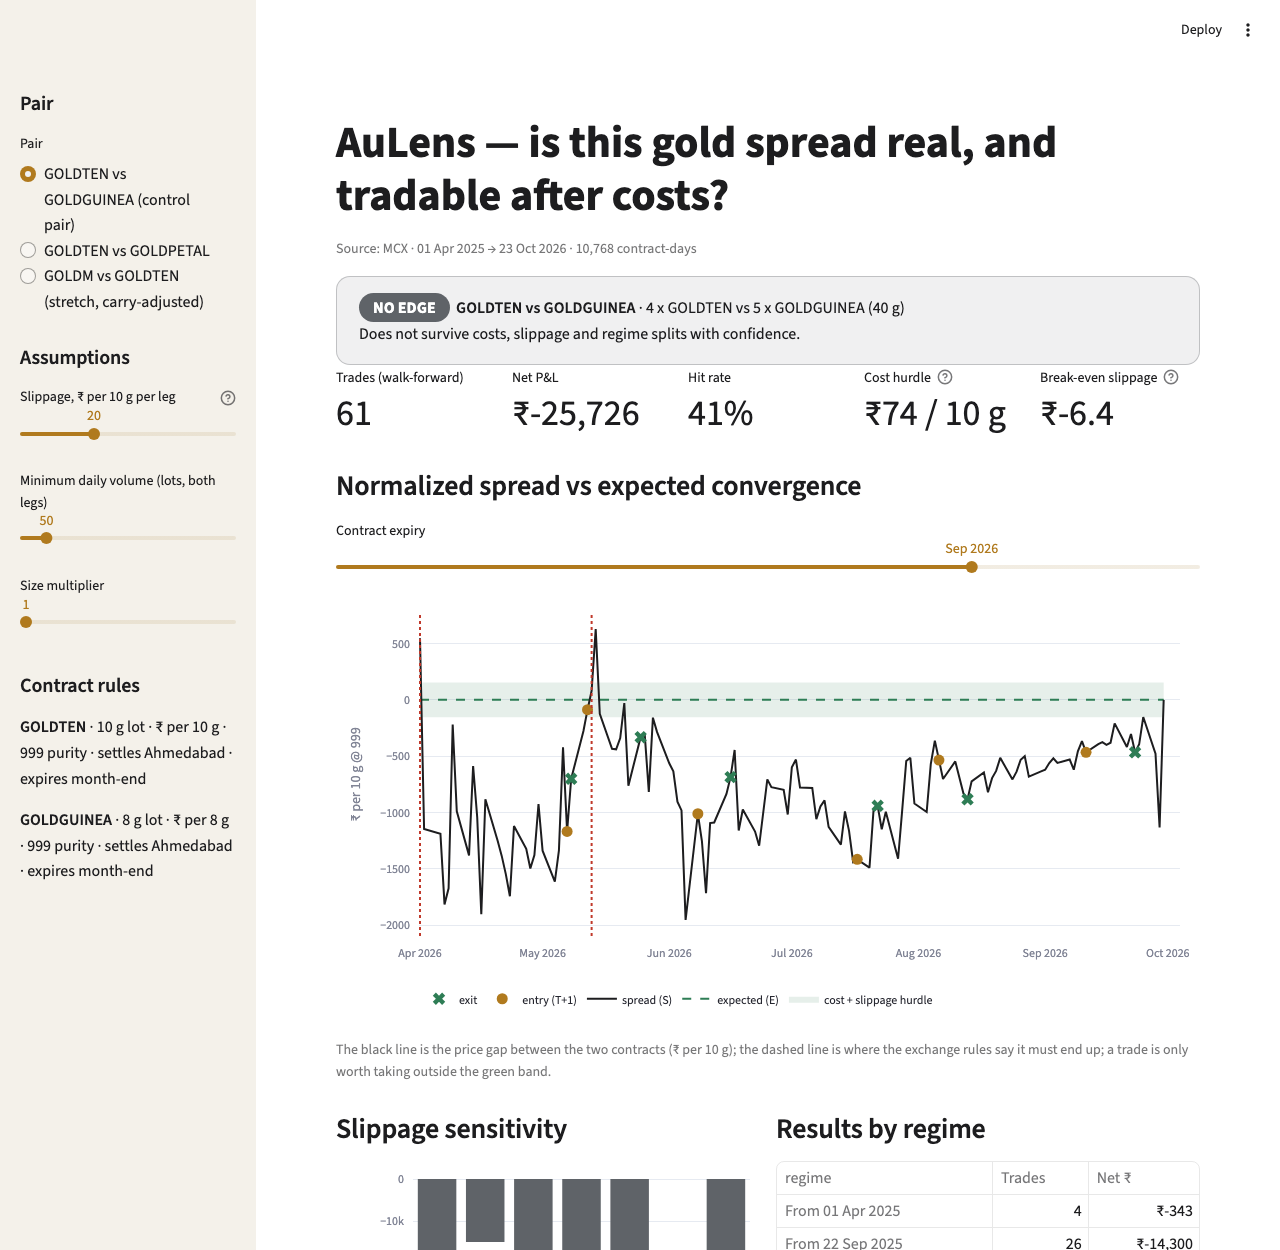
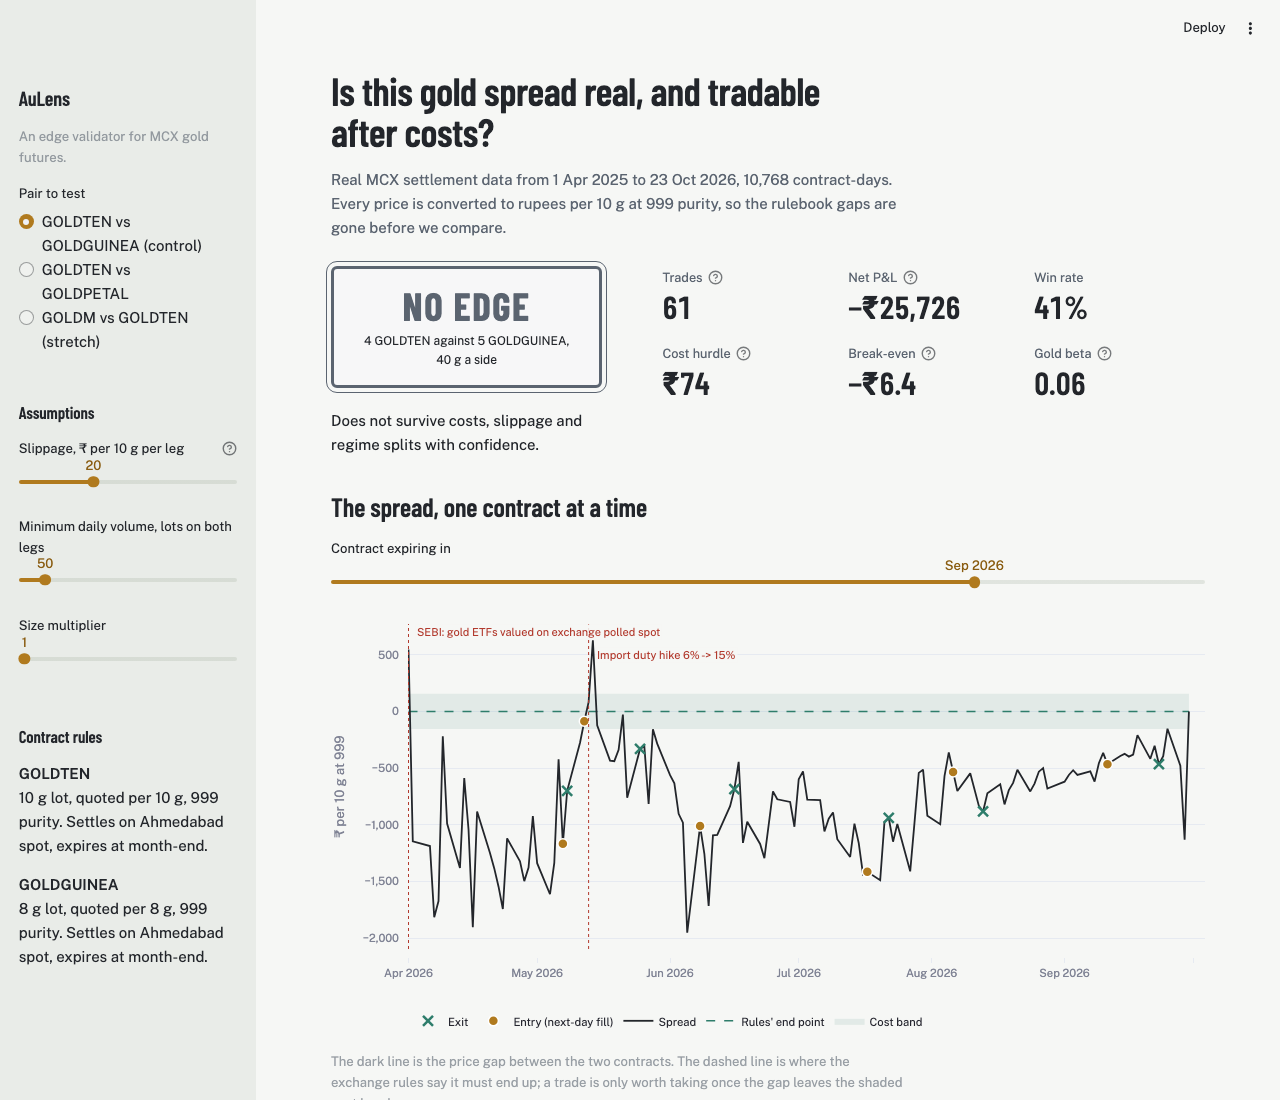
feat: restyle dashboard as an assay certificate
- Verdict shown as a hallmark stamp next to six key numbers
- Barlow Condensed headings and figures, Public Sans body; cool assay-paper palette
- Shared Plotly template, plain-language section titles and legends, true minus signs
- Staggered regime labels; numbers stay three across on phones
- Slider values use text-safe gold (5.3:1); all body text >= 4.5:1

diff --git a/app/streamlit_app.py b/app/streamlit_app.py
@@ -8,15 +8,17 @@ import plotly.graph_objects as go
 import streamlit as st
 
 sys.path.insert(0, str(Path(__file__).resolve().parents[1]))
+sys.path.insert(0, str(Path(__file__).resolve().parent))
 from aulens.backtest import Params, walk_forward  # noqa: E402
 from aulens.costs import CostModel  # noqa: E402
 from aulens.data.loader import load_processed  # noqa: E402
 from aulens.specs import MCX_FULL_HOLIDAYS, PAIRS, REGIME_BREAKS, SPECS  # noqa: E402
 from aulens.verdict import verdict  # noqa: E402
+from theme import (CSS, FAULT, GOLD, INK, PLOTLY_CONFIG, STEEL, VERDIGRIS,  # noqa: E402
+                   hallmark, rupees)
 
-GOLD, DARK, GREEN, GREY, RED = "#B07A1E", "#1D1D1F", "#2E7D55", "#5F6368", "#C0392B"
-PLOTLY_CONFIG = {"displayModeBar": False}  # hover-only toolbar; drag zooms, double-click resets
 st.set_page_config(page_title="AuLens", page_icon="🔎", layout="wide")
+st.markdown(CSS, unsafe_allow_html=True)
 
 
 @st.cache_data
@@ -27,26 +29,22 @@ def data():
 df = data()
 source = "SYNTHETIC" if (df["source"] == "SYNTHETIC").any() else df["source"].iloc[0]
 
-st.title("AuLens — is this gold spread real, and tradable after costs?")
-if source == "SYNTHETIC":
-    st.warning("SYNTHETIC DATA — for UI development only. Numbers below are not findings.")
-st.caption(f"Source: {source} · {df['date'].min():%d %b %Y} → {df['date'].max():%d %b %Y} · "
-           f"{len(df):,} contract-days")
-
 with st.sidebar:
-    st.header("Pair")
-    tags = {0: "  (control pair)", 2: "  (stretch, carry-adjusted)"}
+    st.header("AuLens")
+    st.caption("An edge validator for MCX gold futures.")
+    tags = {0: " (control)", 2: " (stretch)"}
     labels = [f"{a} vs {b}" + tags.get(i, "") for i, (a, b) in enumerate(PAIRS)]
-    a, b = PAIRS[st.radio("Pair", range(len(PAIRS)), format_func=lambda i: labels[i])]
-    st.header("Assumptions")
+    a, b = PAIRS[st.radio("Pair to test", range(len(PAIRS)), format_func=lambda i: labels[i])]
+    st.subheader("Assumptions")
     slip = st.slider("Slippage, ₹ per 10 g per leg", 0, 60, 20, 5,
-                     help="Bhavcopy has no order-book depth, so this is an assumption. See the sensitivity chart.")
-    min_vol = st.slider("Minimum daily volume (lots, both legs)", 0, 500, 50, 10)
+                     help="Bhavcopy has no order-book depth, so this is an assumption. See the slippage chart.")
+    min_vol = st.slider("Minimum daily volume, lots on both legs", 0, 500, 50, 10)
     scale = st.select_slider("Size multiplier", [1, 2, 4, 8], 4 if b == "GOLDPETAL" else 1)
-    st.header("Contract rules")
+    st.subheader("Contract rules")
     for s in (SPECS[a], SPECS[b]):
-        st.markdown(f"**{s.symbol}** · {s.lot_grams:g} g lot · ₹ per {s.quote_grams:g} g · {s.purity} purity · "
-                    f"settles {s.settle_city} · expires {'on the 5th' if s.expiry_rule == '5th' else 'month-end'}")
+        st.markdown(f"**{s.symbol}**  \n{s.lot_grams:g} g lot, quoted per {s.quote_grams:g} g, {s.purity} purity. "
+                    f"Settles on {s.settle_city} spot, expires "
+                    f"{'on the 5th' if s.expiry_rule == '5th' else 'at month-end'}.")
 
 
 @st.cache_data
@@ -78,98 +76,119 @@ def calendar(panel, tender, buffer):
 
 res, v = run(a, b, slip, min_vol, scale)
 panel, trades = res["panel"], res["trades"]
-
-# ---- Verdict card
-colour = {"EDGE": GREEN, "NO EDGE": GREY, "UNTESTABLE": GOLD}[v["verdict"]]
-st.markdown(
-    f"<div style='padding:18px 22px;border-radius:14px;background:{colour}18;border:1px solid {colour}55'>"
-    f"<span style='background:{colour};color:white;padding:4px 14px;border-radius:999px;font-weight:700'>"
-    f"{v['verdict']}</span>&nbsp;&nbsp;<b>{v['pair']}</b> · {v['lots']}<br>"
-    f"<span style='color:{DARK}'>{v['reason']}</span></div>", unsafe_allow_html=True)
-
 hurdle = CostModel().breakeven_per_10g(panel["px10_a"].iloc[-1], res["grams"])
-c = st.columns(5)
-c[0].metric("Trades (walk-forward)", v["trades"])
-c[1].metric("Net P&L", f"₹{v.get('net_pnl', 0):,.0f}")
-c[2].metric("Hit rate", f"{v.get('hit_rate', 0):.0%}")
-c[3].metric("Cost hurdle", f"₹{hurdle:,.0f} / 10 g", help="Statutory + brokerage round trip, before slippage")
-c[4].metric("Break-even slippage", f"₹{v.get('breakeven_slippage_per_leg', float('nan')):,.1f}",
-            help="Slippage per 10 g per leg at which net P&L reaches zero")
+
+# ---- Header and verdict
+st.title("Is this gold spread real, and tradable after costs?")
+if source == "SYNTHETIC":
+    st.warning("Synthetic data, for UI development only. Numbers below are not findings.")
+st.markdown(f"<p class='lede'>{'Real MCX settlement' if source == 'MCX' else 'Synthetic'} data from "
+            f"{df['date'].min():%-d %b %Y} to {df['date'].max():%-d %b %Y}, {len(df):,} contract-days. Every price is "
+            "converted to rupees per 10 g at 999 purity, so the rulebook gaps are gone before we compare.</p>",
+            unsafe_allow_html=True)
+
+lots_a, lots_b = res["lots"]
+hero, numbers = st.columns([1, 1.9], gap="large")
+with hero:
+    st.markdown(hallmark(v["verdict"], v["pair"], f"{lots_a} {a} against {lots_b} {b}, {res['grams']:.0f} g a side"),
+                unsafe_allow_html=True)
+    st.markdown(f"<div class='reason'>{v['reason']}</div>", unsafe_allow_html=True)
+with numbers:
+    r1, r2 = st.columns(3), st.columns(3)
+    beta = v.get("gold_beta", float("nan"))
+    r1[0].metric("Trades", v["trades"], help="Walk-forward: each month is traded with settings chosen on earlier months only.")
+    r1[1].metric("Net P&L", rupees(v.get("net_pnl", 0)), help="After statutory costs, brokerage and the slippage set in the sidebar.")
+    r1[2].metric("Win rate", f"{v.get('hit_rate', 0):.0%}")
+    r2[0].metric("Cost hurdle", rupees(hurdle), help="Statutory charges and brokerage for a round trip, per 10 g, before slippage.")
+    r2[1].metric("Break-even", rupees(v.get("breakeven_slippage_per_leg", float("nan")), 1),
+                 help="Slippage per 10 g per leg at which net P&L reaches zero. Negative means it loses even with perfect fills.")
+    r2[2].metric("Gold beta", "–" if pd.isna(beta) else f"{beta:.2f}",
+                 help="Slope of trade P&L on the gold move. Near 0 means the result is not just gold going up.")
 
 # ---- Spread chart for one expiry
-st.subheader("Normalized spread vs expected convergence")
+st.subheader("The spread, one contract at a time")
 exps = sorted(panel["expiry"].unique())
 expired = [x for x in exps if x <= panel["date"].max()]   # show a full life, through settlement
 default_exp = expired[-1] if expired else exps[0]
-exp = st.select_slider("Contract expiry", exps, value=default_exp,
+exp = st.select_slider("Contract expiring in", exps, value=default_exp,
                        format_func=lambda d: pd.Timestamp(d).strftime("%b %Y"))
 e = panel[panel["expiry"] == exp]
 fig = go.Figure()
 band = hurdle + 4 * slip
 fig.add_trace(go.Scatter(x=e["date"], y=e["expected"] + band, line=dict(width=0), showlegend=False, hoverinfo="skip"))
-fig.add_trace(go.Scatter(x=e["date"], y=e["expected"] - band, fill="tonexty", fillcolor="rgba(46,125,85,0.12)",
-                         line=dict(width=0), name="cost + slippage hurdle"))
-fig.add_trace(go.Scatter(x=e["date"], y=e["expected"], name="expected (E)", line=dict(color=GREEN, dash="dash")))
-fig.add_trace(go.Scatter(x=e["date"], y=e["spread"], name="spread (S)", line=dict(color=DARK)))
+fig.add_trace(go.Scatter(x=e["date"], y=e["expected"] - band, fill="tonexty", fillcolor="rgba(46,125,107,0.10)",
+                         line=dict(width=0), name="Cost band", hoverinfo="skip"))
+fig.add_trace(go.Scatter(x=e["date"], y=e["expected"], name="Rules' end point",
+                         line=dict(color=VERDIGRIS, dash="dash", width=1.5)))
+fig.add_trace(go.Scatter(x=e["date"], y=e["spread"], name="Spread", line=dict(color=INK, width=1.8)))
 et = trades[trades["expiry"] == exp] if len(trades) else trades
 if len(et):
     m = e.set_index("date")["spread"]
     fig.add_trace(go.Scatter(x=et["entry_date"], y=m.reindex(et["entry_date"]).values, mode="markers",
-                             marker=dict(color=GOLD, size=11), name="entry (T+1)"))
+                             marker=dict(color=GOLD, size=10, line=dict(color="white", width=1.5)), name="Entry (next-day fill)"))
     fig.add_trace(go.Scatter(x=et["exit_date"], y=m.reindex(et["exit_date"]).values, mode="markers",
-                             marker=dict(color=GREEN, size=11, symbol="x"), name="exit"))
-for d, label in REGIME_BREAKS.items():
-    if e["date"].min() <= pd.Timestamp(d) <= e["date"].max():
-        fig.add_vline(x=pd.Timestamp(d), line=dict(color=RED, dash="dot"))
-fig.update_layout(height=420, yaxis_title="₹ per 10 g @ 999", margin=dict(l=10, r=10, t=10, b=10),
-                  legend=dict(orientation="h", y=-0.15))
+                             marker=dict(color=VERDIGRIS, size=10, symbol="x-thin", line=dict(color=VERDIGRIS, width=2.5)),
+                             name="Exit"))
+shown = [(d, label) for d, label in REGIME_BREAKS.items() if e["date"].min() <= pd.Timestamp(d) <= e["date"].max()]
+for k, (d, label) in enumerate(shown):   # stagger labels so neighbouring breaks don't collide
+    fig.add_vline(x=pd.Timestamp(d), line=dict(color=FAULT, dash="dot", width=1))
+    fig.add_annotation(x=pd.Timestamp(d), y=1 - 0.07 * (k % 2), yref="paper", text=label, showarrow=False,
+                       xanchor="left", yanchor="top", xshift=6, font=dict(size=11, color=FAULT),
+                       bgcolor="rgba(246,247,245,0.85)")
+fig.update_layout(height=420, yaxis_title="₹ per 10 g at 999")
 st.plotly_chart(fig, width="stretch", config=PLOTLY_CONFIG)
-st.caption("The black line is the price gap between the two contracts (₹ per 10 g); the dashed line is "
-           "where the exchange rules say it must end up; a trade is only worth taking outside the green band.")
+st.caption("The dark line is the price gap between the two contracts. The dashed line is where the exchange "
+           "rules say it must end up; a trade is only worth taking once the gap leaves the shaded cost band.")
 
 # ---- Sensitivity + regimes
-l, r = st.columns(2)
+l, r = st.columns(2, gap="large")
 with l:
-    st.subheader("Slippage sensitivity")
+    st.subheader("What slippage does to it")
     sens = sensitivity(a, b, min_vol, scale)
-    f2 = go.Figure(go.Bar(x=sens["slippage"], y=sens["net"],
-                          marker_color=[GREEN if n > 0 else GREY for n in sens["net"]]))
-    f2.update_layout(height=300, xaxis_title="₹ per 10 g per leg", yaxis_title="Net P&L ₹", margin=dict(l=10, r=10, t=10, b=10))
+    f2 = go.Figure(go.Bar(x=sens["slippage"], y=sens["net"], width=6,
+                          marker_color=[VERDIGRIS if n > 0 else STEEL for n in sens["net"]],
+                          marker_line=dict(color=[GOLD if s == slip else "rgba(0,0,0,0)" for s in sens["slippage"]], width=2.5),
+                          hovertemplate="₹%{x} slippage: net ₹%{y:,.0f}<extra></extra>"))
+    f2.add_hline(y=0, line=dict(color=INK, width=1))
+    f2.update_layout(height=300, xaxis_title="Slippage, ₹ per 10 g per leg", yaxis_title="Net P&L, ₹",
+                     xaxis=dict(tickvals=sens["slippage"]))
     st.plotly_chart(f2, width="stretch", config=PLOTLY_CONFIG)
-    st.caption("Total net profit if every fill costs this much extra per 10 g per leg; grey bars lose money.")
+    st.caption("Net profit if every fill costs this much extra. Green makes money, grey loses; "
+               "the outlined bar is the slippage set in the sidebar.")
 with r:
     st.subheader("Results by regime")
     if "by_regime" in v:
-        st.table(v["by_regime"].rename(columns={"count": "Trades", "sum": "Net ₹"}).style.format({"Net ₹": "₹{:,.0f}"}))
-        st.caption("The same trades split by the market regime they were opened in; a real edge makes money in every row. "
-                   f"Gold beta of trade P&L: {v['gold_beta']:.3f} (near 0 = the result is not just gold going up).")
+        reg = v["by_regime"].rename(columns={"count": "Trades", "sum": "Net P&L"}).rename_axis("Regime")
+        st.table(reg.assign(**{"Net P&L": reg["Net P&L"].map(rupees)})
+                 .style.set_properties(subset=["Net P&L"], **{"text-align": "right"}))
+        st.caption("The same trades, split by the market regime they were opened in. "
+                   "A real edge makes money in every row.")
     else:
-        st.info("No trades yet.")
+        st.info("No trades cleared the cost hurdle, so there is nothing to split. Lower the slippage or volume filter to see why.")
 
 # ---- Contract calendar
-st.subheader("Contract calendar")
+st.subheader("When a position can be held")
 tender = max(SPECS[a].tender_days, SPECS[b].tender_days)
 cal = calendar(panel, tender, res["params"].exit_buffer_days)
+phases = {"Can hold the pair": GOLD, "Must already be out": STEEL, "Delivery window to expiry": FAULT}
 segments = pd.concat([
-    cal.assign(start=cal["first"], end=cal["last_tradable"], phase="Can hold a position"),
-    cal.assign(start=cal["last_tradable"], end=cal["tender_start"], phase="Forced exit (broker buffer)"),
-    cal.assign(start=cal["tender_start"], end=cal["expiry"], phase="Tender window → expiry"),
+    cal.assign(start=cal["first"], end=cal["last_tradable"], phase="Can hold the pair"),
+    cal.assign(start=cal["last_tradable"], end=cal["tender_start"], phase="Must already be out"),
+    cal.assign(start=cal["tender_start"], end=cal["expiry"], phase="Delivery window to expiry"),
 ])
 segments["contract"] = segments["expiry"].dt.strftime("%b %Y") + segments["live"].map({True: " (live, est.)", False: ""})
-f3 = px.timeline(segments, x_start="start", x_end="end", y="contract", color="phase",
-                 color_discrete_map={"Can hold a position": GOLD, "Forced exit (broker buffer)": GREY,
-                                     "Tender window → expiry": RED},
+f3 = px.timeline(segments, x_start="start", x_end="end", y="contract", color="phase", color_discrete_map=phases,
                  hover_data={"first": "|%d %b %Y", "last_tradable": "|%d %b %Y", "expiry": "|%d %b %Y",
-                             "start": False, "end": False, "contract": False})
-f3.update_yaxes(autorange="reversed", title=None)
-f3.update_layout(height=max(300, 22 * len(cal)), margin=dict(l=10, r=10, t=10, b=10),
-                 legend=dict(orientation="h", y=-0.12, title=None))
+                             "start": False, "end": False, "contract": False, "phase": False})
+f3.update_yaxes(autorange="reversed", title=None, showgrid=False)
+f3.update_xaxes(showgrid=True, gridcolor="#E3E6E1")
+f3.update_layout(height=max(300, 22 * len(cal)), bargap=0.35, legend_title_text="")
 st.plotly_chart(f3, width="stretch", config=PLOTLY_CONFIG)
-st.caption("One bar per contract: gold is when AuLens may hold the pair, grey is the early-exit buffer, red is "
-           "the delivery (tender) window up to expiry. Dates after the last data day skip weekends and "
+st.caption("One bar per contract. Gold is when AuLens may hold the pair; grey is the broker's early-exit "
+           "buffer; red is the delivery window up to expiry. Dates after the last data day skip weekends and "
            "MCX's published 2026 holidays (2027 is not out yet), so live contracts are estimates.")
 
-with st.expander("Trade log"):
+with st.expander("Every trade"):
     st.dataframe(trades, hide_index=True)
 with st.expander("How AuLens decides"):
     st.markdown(Path(__file__).resolve().parents[1].joinpath("docs", "METHODOLOGY.md").read_text())

diff --git a/app/theme.py b/app/theme.py
@@ -1,0 +1,79 @@
+"""Visual system for the dashboard: "Assay certificate". Tokens mirror .streamlit/config.toml."""
+from html import escape
+
+import plotly.graph_objects as go
+import plotly.io as pio
+
+INK = "#23262B"        # touchstone: text, spread line
+GOLD = "#B07A1E"       # fine gold: entries, holdable window
+GOLD_TEXT = "#8A5D12"  # gold that passes 4.5:1 on paper, for small text
+STEEL = "#5B6470"      # hallmark steel: secondary text, NO EDGE
+VERDIGRIS = "#2E7D6B"  # expected spread, EDGE, exits
+FAULT = "#B23A2E"      # regime breaks, tender window
+PAPER = "#F6F7F5"
+RULE = "#D5D9D3"
+
+VERDICT_COLOUR = {"EDGE": VERDIGRIS, "NO EDGE": STEEL, "UNTESTABLE": GOLD_TEXT}
+
+PLOTLY_CONFIG = {"displayModeBar": False}  # hover-only toolbar; drag zooms, double-click resets
+
+pio.templates["assay"] = go.layout.Template(layout=go.Layout(
+    font=dict(family="Public Sans, sans-serif", size=13, color=INK),
+    paper_bgcolor=PAPER, plot_bgcolor=PAPER,
+    colorway=[INK, GOLD, VERDIGRIS, STEEL, FAULT],
+    xaxis=dict(showgrid=False, linecolor=RULE, ticks="outside", tickcolor=RULE, zeroline=False),
+    yaxis=dict(gridcolor=RULE, gridwidth=1, zeroline=False, linecolor=RULE, tickformat=",~r"),
+    hoverlabel=dict(bgcolor="white", bordercolor=RULE, font=dict(family="Public Sans", color=INK)),
+    legend=dict(orientation="h", y=-0.18, x=0, title=None, font=dict(size=12, color=STEEL)),
+    margin=dict(l=8, r=8, t=8, b=8),
+))
+pio.templates.default = "assay"
+
+CSS = f"""
+<style>
+  /* tabular figures everywhere numbers line up */
+  [data-testid="stMetricValue"], [data-testid="stTable"] td, .ledger {{ font-variant-numeric: tabular-nums; }}
+  [data-testid="stMetricValue"], [data-testid="stMetricValue"] * {{ font-family: "Barlow Condensed", sans-serif !important;
+    font-weight: 600; font-size: 2.1rem; line-height: 1.1; }}
+  [data-testid="stMetricLabel"] p {{ color: {STEEL}; font-size: .85rem; }}
+  [data-testid="stCaptionContainer"] p {{ color: {STEEL}; max-width: 72ch; }}
+  .block-container {{ padding-top: 2.5rem; max-width: 1180px; }}
+  h1 {{ font-size: 2.6rem !important; line-height: 1.05 !important; letter-spacing: -.01em; max-width: 30ch; }}
+  .lede {{ color: {STEEL}; margin: .25rem 0 1.75rem; max-width: 62ch; }}
+
+  /* the signature: verdict as a punched hallmark */
+  .hallmark {{ display: inline-flex; flex-direction: column; align-items: center; justify-content: center;
+    min-width: 13rem; padding: 1.1rem 1.6rem 1rem; border: 3px solid var(--mark);
+    outline: 1.5px solid var(--mark); outline-offset: 4px; border-radius: 6px; color: var(--mark);
+    background: color-mix(in srgb, var(--mark) 5%, white); }}
+  .hallmark .v {{ font-family: "Barlow Condensed", sans-serif; font-weight: 700; font-size: 2.6rem;
+    line-height: 1; letter-spacing: .04em; }}
+  .hallmark .p {{ font-size: .8rem; margin-top: .45rem; color: {INK}; text-align: center; }}
+  .reason {{ margin-top: 1.4rem; max-width: 46ch; }}
+  section[data-testid="stSidebar"] h2 {{ font-size: 1.35rem; }}
+  h3 {{ margin-top: 1.5rem !important; }}
+  /* slider value labels default to primary gold (3.4:1); use the text-safe gold */
+  [data-testid="stSliderThumbValue"], [data-testid="stSliderTickBarMin"], [data-testid="stSliderTickBarMax"] {{ color: {GOLD_TEXT} !important; }}
+
+  /* phones: keep the six key numbers three across instead of one per row */
+  @media (max-width: 640px) {{
+    [data-testid="stColumn"] [data-testid="stHorizontalBlock"] {{ flex-wrap: nowrap !important; gap: .75rem; }}
+    [data-testid="stColumn"] [data-testid="stColumn"] {{ min-width: 0 !important; flex: 1 1 0 !important; }}
+    [data-testid="stMetricValue"], [data-testid="stMetricValue"] * {{ font-size: 1.55rem !important; }}
+    [data-testid="stMetricLabel"] p {{ font-size: .75rem; }}
+    h1 {{ font-size: 2.1rem !important; }}
+  }}
+</style>
+"""
+
+
+def hallmark(verdict: str, pair: str, lots: str) -> str:
+    return (f"<div class='hallmark' role='img' aria-label='Verdict: {escape(verdict)} for {escape(pair)}' "
+            f"style='--mark:{VERDICT_COLOUR[verdict]}'><span class='v'>{escape(verdict)}</span>"
+            f"<span class='p'>{escape(lots)}</span></div>")
+
+
+def rupees(x: float, decimals: int = 0) -> str:
+    """₹ with a true minus sign: −₹25,726 rather than ₹-25,726."""
+    s = f"₹{abs(x):,.{decimals}f}"
+    return f"−{s}" if x < 0 else s
